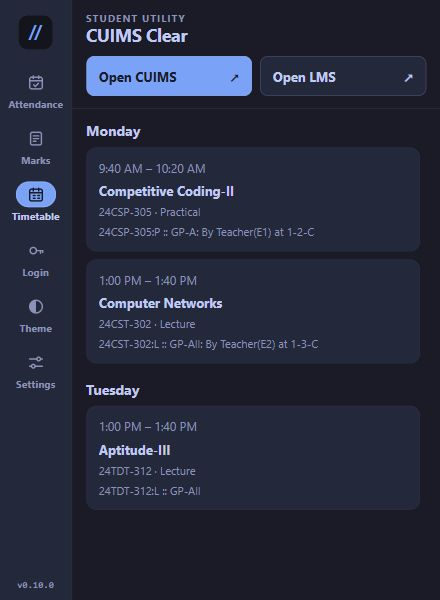
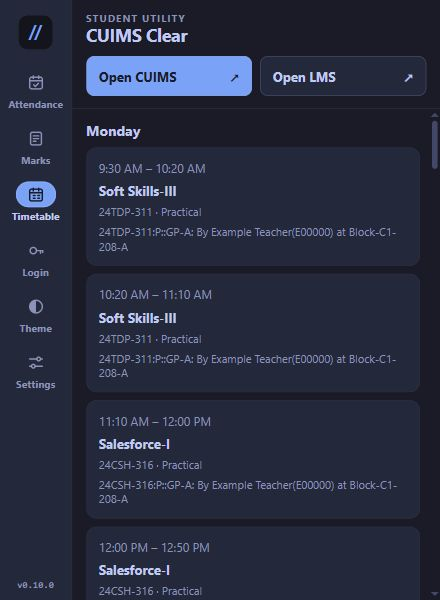
feat(timetable): weekday navigation and compact class cards (0.10.0)
Show one weekday at a time, defaulting to today in India time. Keep times in a fixed left column and place the teacher directly under the subject, with the class type beside it and time, room, and group on one line.

Support keyboard day navigation and empty-day states without new CUIMS requests. Update timezone and rendering coverage, refresh the local preview, and rebuild the Firefox package.

Validation: 33 focused tests passed; verified cached day switching and the compact layout in the browser preview.

diff --git a/outputs/cuims-clear-firefox/timetable-view.js b/outputs/cuims-clear-firefox/timetable-view.js
@@ -1,19 +1,40 @@
 (function (root) {
   const escape = root.CuimsAttendance.escapeHtml;
   const names = ["Monday", "Tuesday", "Wednesday", "Thursday", "Friday", "Saturday", "Sunday"];
+  function today(now = new Date()) {
+    return new Intl.DateTimeFormat("en-US", { timeZone: "Asia/Kolkata", weekday: "short" }).format(now).toLowerCase();
+  }
   function clock(minutes) {
     const hour = Math.floor(minutes / 60) % 24;
     return `${hour % 12 || 12}:${String(minutes % 60).padStart(2, "0")} ${hour < 12 ? "AM" : "PM"}`;
   }
-  function render(cache, status = {}) {
-    if (!cache) return `<p class="marks-note" role="status">${escape(status.working ? status.phase || "Reading timetable…" : status.error || "Your weekly timetable appears here after one fetch.")}</p>${!status.working ? '<button id="fetch-timetable" class="refresh-button" type="button">'+(status.error ? "Try again" : "Fetch timetable")+'</button>' : ""}`;
-    const slots = root.CuimsTimetable.sort(cache.slots);
-    if (!slots.length) return '<p class="marks-note">No classes have been published.</p>';
-    return root.CuimsTimetable.DAYS.map((day, index) => {
-      const classes = slots.filter(slot => slot.weekday === day);
-      if (!classes.length) return "";
-      return `<section class="timetable-day"><h2>${names[index]}</h2><ol>${classes.map(slot => `<li><time>${clock(slot.start)} – ${clock(slot.end)}</time><strong>${escape(slot.title || slot.shortCode)}</strong><small>${escape([slot.shortCode, {L:"Lecture", P:"Practical", T:"Tutorial"}[slot.kind]].filter(Boolean).join(" · "))}</small>${slot.rawLabel ? `<p>${escape(slot.rawLabel)}</p>` : ""}</li>`).join("")}</ol></section>`;
-    }).join("");
+  function range(start, end) {
+    const first = clock(start), last = clock(end);
+    const suffix = first.slice(-2);
+    return last.endsWith(suffix) ? first.slice(0, -3) + "–" + last : first + "–" + last;
   }
-  root.CuimsTimetableView = { render };
+  function details(label) {
+    const raw = String(label || "").replace(/\s+/g, " ").trim();
+    const match = raw.match(/::\s*([^:]+):\s*By\s*(.*?)\s+at\s+(.+)$/i);
+    return match ? { group: match[1].trim(), teacher: match[2].trim(), room: match[3].trim(), other: "" }
+      : { group: "", teacher: "", room: "", other: raw };
+  }
+  function render(cache, status = {}, { day = "", now = new Date() } = {}) {
+    if (!cache) return `<p class="marks-note" role="status">${escape(status.working ? status.phase || "Reading timetable…" : status.error || "Your weekly timetable appears here after one fetch.")}</p>${!status.working ? '<button id="fetch-timetable" class="refresh-button" type="button">'+(status.error ? "Try again" : "Fetch timetable")+'</button>' : ""}`;
+    const days = root.CuimsTimetable.DAYS;
+    const selected = days.includes(day) ? day : today(now);
+    const slots = root.CuimsTimetable.sort(cache.slots);
+    const buttons = days.map((key, index) => {
+      const count = slots.filter(slot => slot.weekday === key).length;
+      return `<button id="timetable-${key}" class="timetable-day-button" type="button" role="tab" data-timetable-day="${key}" aria-label="${names[index]}" aria-selected="${key === selected}" aria-controls="timetable-day-panel" tabindex="${key === selected ? 0 : -1}"><span>${names[index].slice(0, 3)}</span><small aria-label="${count} ${count === 1 ? "class" : "classes"}">${count}</small></button>`;
+    }).join("");
+    const classes = slots.filter(slot => slot.weekday === selected);
+    const cards = classes.map(slot => {
+      const info = details(slot.rawLabel);
+      const kind = { L: "Lecture", P: "Practical", T: "Tutorial" }[slot.kind] || "Class";
+      return `<li class="timetable-row"><div class="timetable-time"><time>${clock(slot.start)}</time><span>${clock(slot.end)}</span></div><article class="timetable-class"><div class="timetable-class-head"><div class="timetable-class-title"><h3>${escape(slot.title || slot.shortCode)}</h3>${info.teacher ? `<p class="timetable-teacher">${escape(info.teacher)}</p>` : ""}</div><span class="timetable-kind">${kind}</span></div><div class="timetable-class-meta"><span class="timetable-duration">${range(slot.start, slot.end)}</span>${info.room ? `<span>${escape(info.room)}</span>` : ""}${info.group ? `<span>${escape(info.group)}</span>` : ""}</div>${info.other ? `<p class="timetable-other">${escape(info.other)}</p>` : ""}</article></li>`;
+    }).join("");
+    return `<div class="timetable-days" role="tablist" aria-label="Timetable weekdays">${buttons}</div><section id="timetable-day-panel" role="tabpanel" aria-labelledby="timetable-${selected}"><h2 class="sr-only">${names[days.indexOf(selected)]} classes</h2>${cards ? `<ol class="timetable-timeline">${cards}</ol>` : `<p class="marks-note timetable-empty">No classes scheduled for ${names[days.indexOf(selected)]}.</p>`}</section>`;
+  }
+  root.CuimsTimetableView = { render, today };
 })(globalThis);

diff --git a/outputs/cuims-clear-firefox/popup.css b/outputs/cuims-clear-firefox/popup.css
@@ -1467,11 +1467,28 @@ input[role="switch"]:disabled {
   }
 }
 
-.timetable-day { margin-bottom: 16px; }
-.timetable-day h2 { margin: 0 0 8px; font-size: 14px; color: var(--ink); }
-.timetable-day ol { list-style: none; padding: 0; margin: 0; }
-.timetable-day li { background: var(--surface); border: 1px solid var(--line); border-radius: 10px; padding: 12px; margin-bottom: 8px; }
-.timetable-day time, .timetable-day strong, .timetable-day small { display: block; }
-.timetable-day time { color: var(--muted); font-size: 12px; margin-bottom: 6px; }
-.timetable-day strong { font-size: 13px; }
-.timetable-day small, .timetable-day p { font-size: 11px; color: var(--muted); margin: 5px 0 0; overflow-wrap: anywhere; }
+
+.timetable-days { position: sticky; top: 0; z-index: 1; display: grid; grid-template-columns: repeat(7, minmax(0, 1fr)); gap: 4px; padding: 0 0 12px; background: var(--canvas); }
+.timetable-day-button { display: flex; flex-direction: column; align-items: center; gap: 7px; padding: 10px 2px; border: 1px solid var(--line); border-radius: 10px; background: var(--surface); color: var(--ink); font: inherit; line-height: 1.2; cursor: pointer; }
+.timetable-day-button span { font-size: 11px; font-weight: 600; }
+.timetable-day-button small { display: grid; place-items: center; width: 19px; height: 19px; border-radius: 50%; background: var(--surface-2); color: var(--muted); font-size: 10px; }
+.timetable-day-button[aria-selected="true"] { background: var(--accent); color: var(--accent-ink); border-color: var(--accent-line); }
+.timetable-day-button[aria-selected="true"] small { background: var(--accent-hover); color: var(--accent-ink); }
+.timetable-day-button:hover { border-color: var(--line-strong); }
+.timetable-day-button:focus-visible { outline: 2px solid var(--focus); outline-offset: 2px; }
+.timetable-timeline { list-style: none; padding: 0; margin: 0; }
+.timetable-row { display: grid; grid-template-columns: 58px minmax(0, 1fr); gap: 10px; margin-bottom: 12px; }
+.timetable-time { border-right: 1px solid var(--line); padding: 12px 8px 0 0; color: var(--muted); font-size: 10px; line-height: 1.5; }
+.timetable-time time, .timetable-time span { display: block; white-space: nowrap; }
+.timetable-time time { color: var(--ink); font-weight: 600; }
+.timetable-class { display: flex; min-width: 0; flex-direction: column; gap: 8px; padding: 12px; border: 1px solid var(--line); border-radius: 12px; background: var(--surface); }
+.timetable-class-title { flex: 1; min-width: 0; }
+.timetable-class-title .timetable-teacher { margin-top: 2px; }
+.timetable-class-head { display: flex; align-items: flex-start; gap: 8px; }
+.timetable-class h3 { flex: 1; min-width: 0; margin: 0; font-size: 13px; line-height: 1.35; overflow-wrap: anywhere; }
+.timetable-kind { flex: 0 0 auto; border-radius: 20px; padding: 4px 6px; background: var(--surface-2); color: var(--muted); font-size: 9px; font-weight: 600; }
+.timetable-teacher, .timetable-other { margin: 0; color: var(--muted); font-size: 11px; line-height: 1.5; overflow-wrap: anywhere; }
+.timetable-class-meta { display: flex; flex-wrap: nowrap; gap: 4px; margin-top: 4px; overflow-x: auto; scrollbar-width: thin; }
+.timetable-class-meta span { flex: 0 0 auto; white-space: nowrap; padding: 4px; border-radius: 6px; background: var(--surface-2); color: var(--muted); font-size: 10px; line-height: 1.3; overflow-wrap: anywhere; }
+.timetable-duration { font-variant-numeric: tabular-nums; }
+.timetable-empty { padding: 12px 0; }

diff --git a/outputs/cuims-clear-firefox/popup.js b/outputs/cuims-clear-firefox/popup.js
@@ -86,6 +86,7 @@ let marksState = { cache: null, status: null };
 let timetableState = { cache: null, status: null };
 let timetablePending = false;
 let timetableSequence = 0;
+let timetableDay = "";
 let marksPending = false;
 let marksReadSequence = 0;
 // The student's goal is a preference; the skip plan lasts one campus day.
@@ -406,7 +407,7 @@ function paintTimetable() {
   let state = timetableState.status?.uid && timetableState.status.uid !== savedLogin.uid ? null : timetableState.status;
   if (state?.working && !timetablePending && Date.now() - Number(state.at || 0) > 2 * 60 * 1000)
     state = { error: "The previous read stopped. Try again." };
-  views.timetable.innerHTML = CuimsTimetableView.render(cache, state || {});
+  views.timetable.innerHTML = CuimsTimetableView.render(cache, state || {}, { day: timetableDay });
 }
 function fetchTimetable() {
   if (timetablePending) return;
@@ -427,6 +428,27 @@ function fetchTimetable() {
 }
 views.timetable.addEventListener("click", event => {
   if (event.target.closest("#fetch-timetable")) fetchTimetable();
+  const day = event.target.closest("[data-timetable-day]")?.dataset.timetableDay;
+  if (day && CuimsTimetable.DAYS.includes(day)) {
+    timetableDay = day;
+    paintTimetable();
+    viewport.scrollTop = 0;
+    views.timetable.querySelector('[data-timetable-day="' + day + '"]')?.focus({ preventScroll: true });
+  }
+});
+
+views.timetable.addEventListener("keydown", event => {
+  const day = event.target.closest("[data-timetable-day]")?.dataset.timetableDay;
+  const index = CuimsTimetable.DAYS.indexOf(day);
+  if (index < 0) return;
+  let next;
+  if (event.key === "ArrowRight") next = (index + 1) % 7;
+  else if (event.key === "ArrowLeft") next = (index + 6) % 7;
+  else if (event.key === "Home") next = 0;
+  else if (event.key === "End") next = 6;
+  else return;
+  event.preventDefault();
+  views.timetable.querySelector('[data-timetable-day="' + CuimsTimetable.DAYS[next] + '"]')?.click();
 });
 
 function showView(name, { remember = true } = {}) {

diff --git a/outputs/cuims-clear-firefox/README.md b/outputs/cuims-clear-firefox/README.md
@@ -28,7 +28,9 @@ A Firefox Manifest V3 extension for `https://students.cuchd.in/` and
   **Refresh** fetches the latest current marks from CUIMS on demand, with a
   30-second gap between refreshes;
 - shows a **Timetable** tab sorted Monday–Sunday and by class start time, with
-  course, teacher and room details. One successful read is cached for the saved UID;
+  course, teacher and room details. Weekday buttons show one day at a time,
+  defaulting to today in India time; class times stay in a column on the left.
+  One successful read is cached for the saved UID;
   reopening the popup does not fetch it again. Neither Marks nor Timetable needs
   an open CUIMS tab: an uncached read checks the session and signs in once with
   the saved login if needed;
